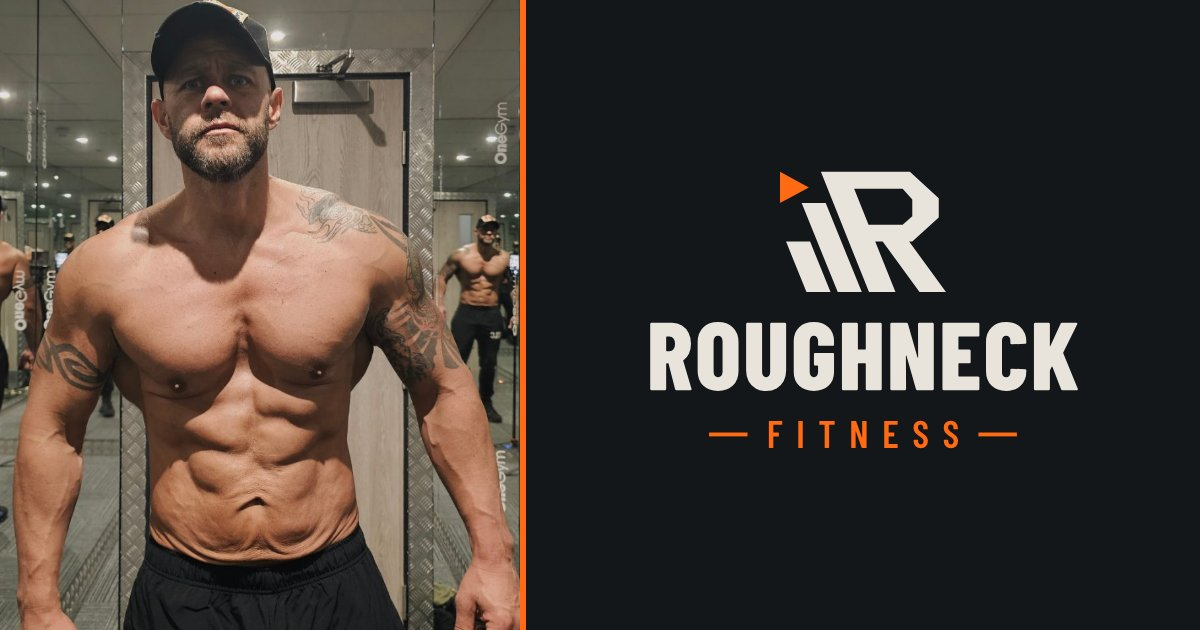
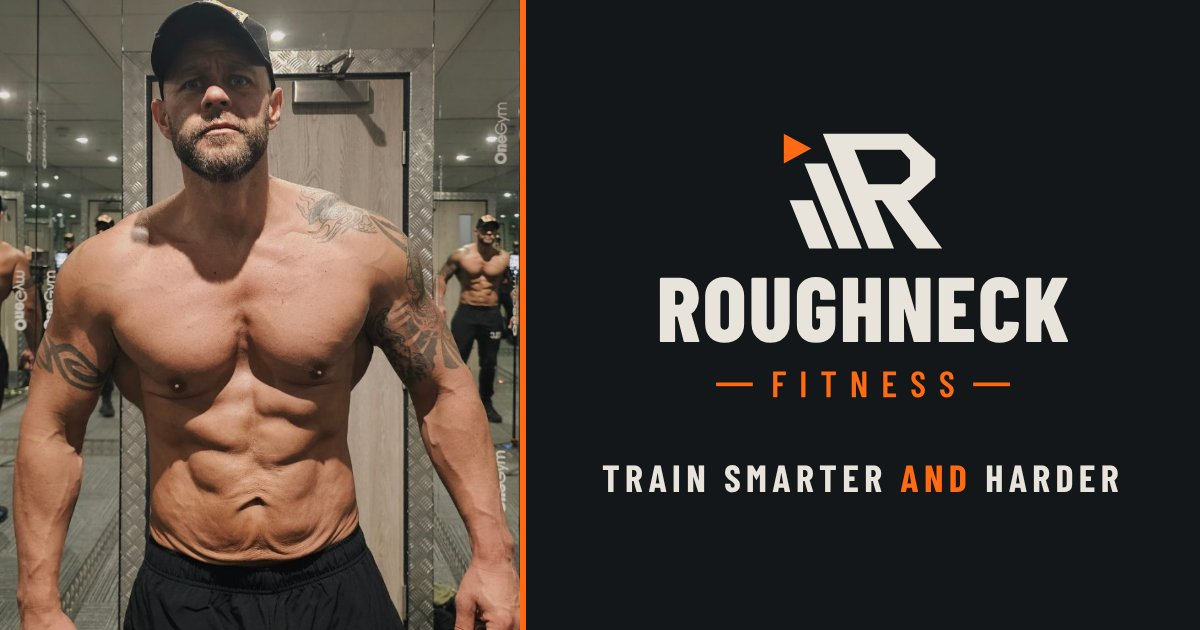
Roughneck: slogan 'Train smarter and harder' on the site, share image and brand guide
Claude-Session: https://claude.ai/code/session_01JNXA7Uz8qiMYfqnYN9MWx9

Changed region(s): [[0.5242, 0.2111, 0.8942, 0.6333], [0.4933, 0.6635, 0.9558, 0.7841]]

diff --git a/roughneck-fitness/site/index.html b/roughneck-fitness/site/index.html
@@ -10,7 +10,7 @@
 <meta name="theme-color" content="#14171A">
 <meta property="og:type" content="website">
 <meta property="og:title" content="Roughneck Fitness — Online coaching and training plans">
-<meta property="og:description" content="72 lb down. Sober since April 2025. Plans for the gym, the rig and the hotel room. Diet included.">
+<meta property="og:description" content="Train smarter and harder. 72 lb down, sober since April 2025. Plans for the gym, the rig and the hotel room. Diet included.">
 <meta property="og:image" content="https://roughneck-fitness.com/img/og-image.jpg">
 <meta property="og:image:width" content="1200">
 <meta property="og:image:height" content="630">
@@ -196,7 +196,7 @@
 <header class="hero">
   <div class="container">
     <div>
-      <span class="label">Online coaching · training plans · diet included</span>
+      <span class="label">Train smarter and harder</span>
       <h1>72 lb down.<br><em>Sober since April 2025.</em><br>Now I coach it.</h1>
       <p class="lede">Training plans for wherever you are: a full gym, a site or rig gym, or a hotel room. Diet advice built in, not sold separately. One-to-one coaching for people who want it done properly. From a former rig worker who's been through the whole turnaround, and knows it wasn't done alone.</p>
       <div class="counter" aria-live="polite">
@@ -359,7 +359,7 @@
 <footer>
   <div class="container">
     <div class="row2">
-      <span>&copy; 2026 Roughneck Fitness. All rights reserved.</span>
+      <span>&copy; 2026 Roughneck Fitness · Train smarter and harder</span>
       <span><a href="#">Instagram</a> &middot; <a href="mailto:coach@roughneck-fitness.com">coach@roughneck-fitness.com</a> &middot; <a href="#top">Back to top</a></span>
     </div>
     <p>Training and nutrition guidance for healthy adults. Not medical advice. Check with a doctor before starting a new programme, especially after a period of heavy drinking. Results shown are one person's and not a guarantee of yours.</p>

diff --git a/roughneck-fitness/brand/README.md b/roughneck-fitness/brand/README.md
@@ -19,7 +19,10 @@ Logo redrawn 13 Oct 2026 from the brand board made in ChatGPT (the "R" built fro
 - Headings Barlow Condensed (heavy, uppercase); body Barlow. Both free from Google Fonts. Same as the site.
 - Orange is the accent, never the main colour of a page or garment.
 
-## Taglines
+## Slogan
+**Train smarter and harder.** (Dan's, 14 Oct 2026: a play on "work smarter, not harder". Smart programming *and* hard work, not one instead of the other.) Used on the site (hero line, footer, share text) and the share image. On clothing it works as a back print or sleeve line.
+
+## Other lines
 - Use: **"Do what you're told. Follow the process."** (the coaching ethos, credited to Shaun's system).
 - Fine: "Same plan. Different day. Better you."
 - Don't use: "Discipline builds freedom". It's too close to "Discipline Equals Freedom", Jocko Willink's book and merch line.
